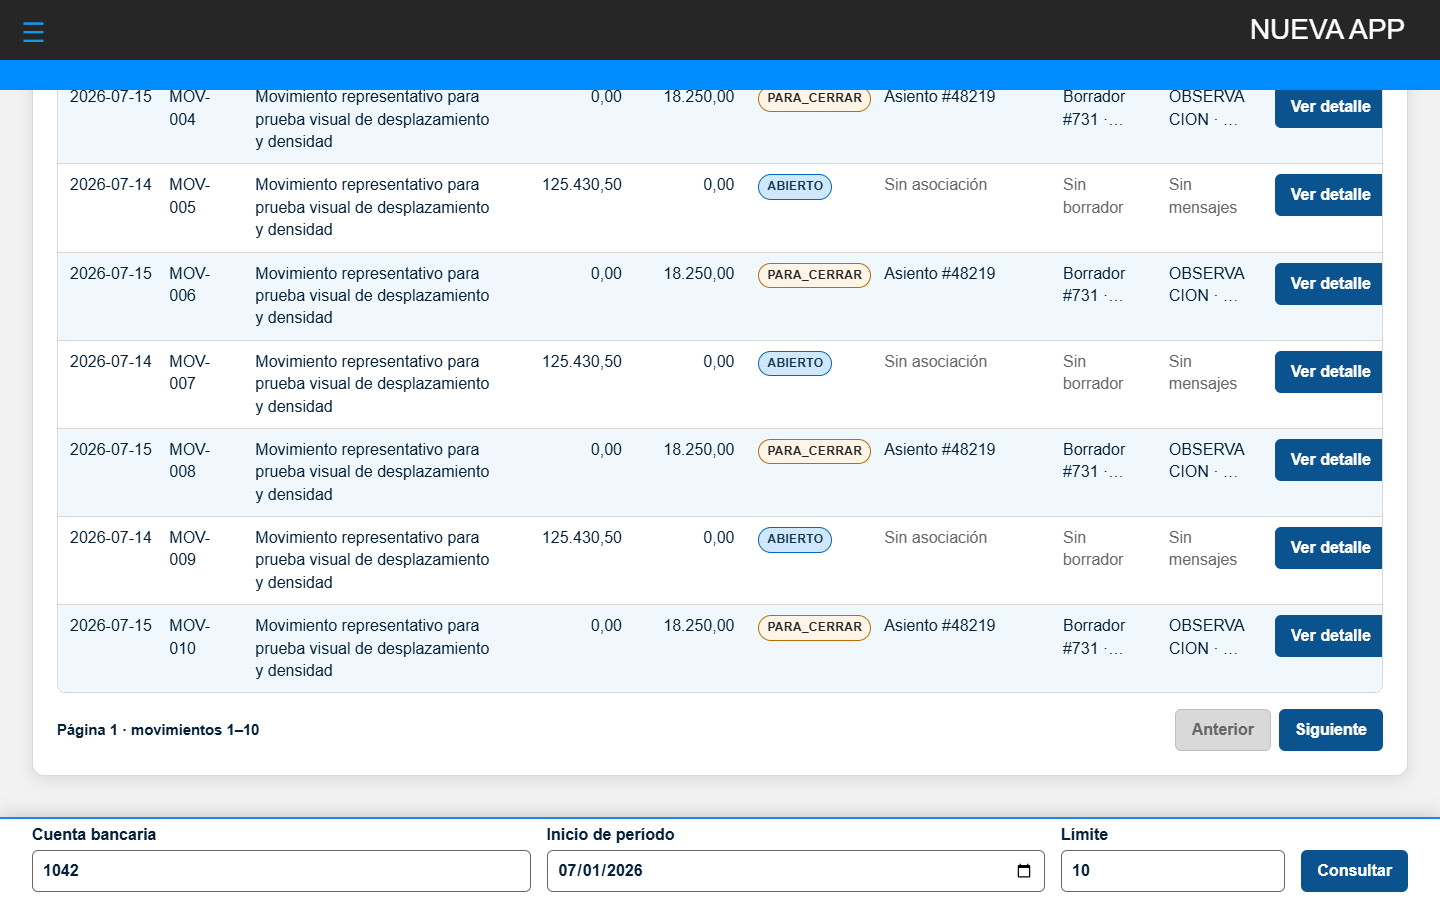
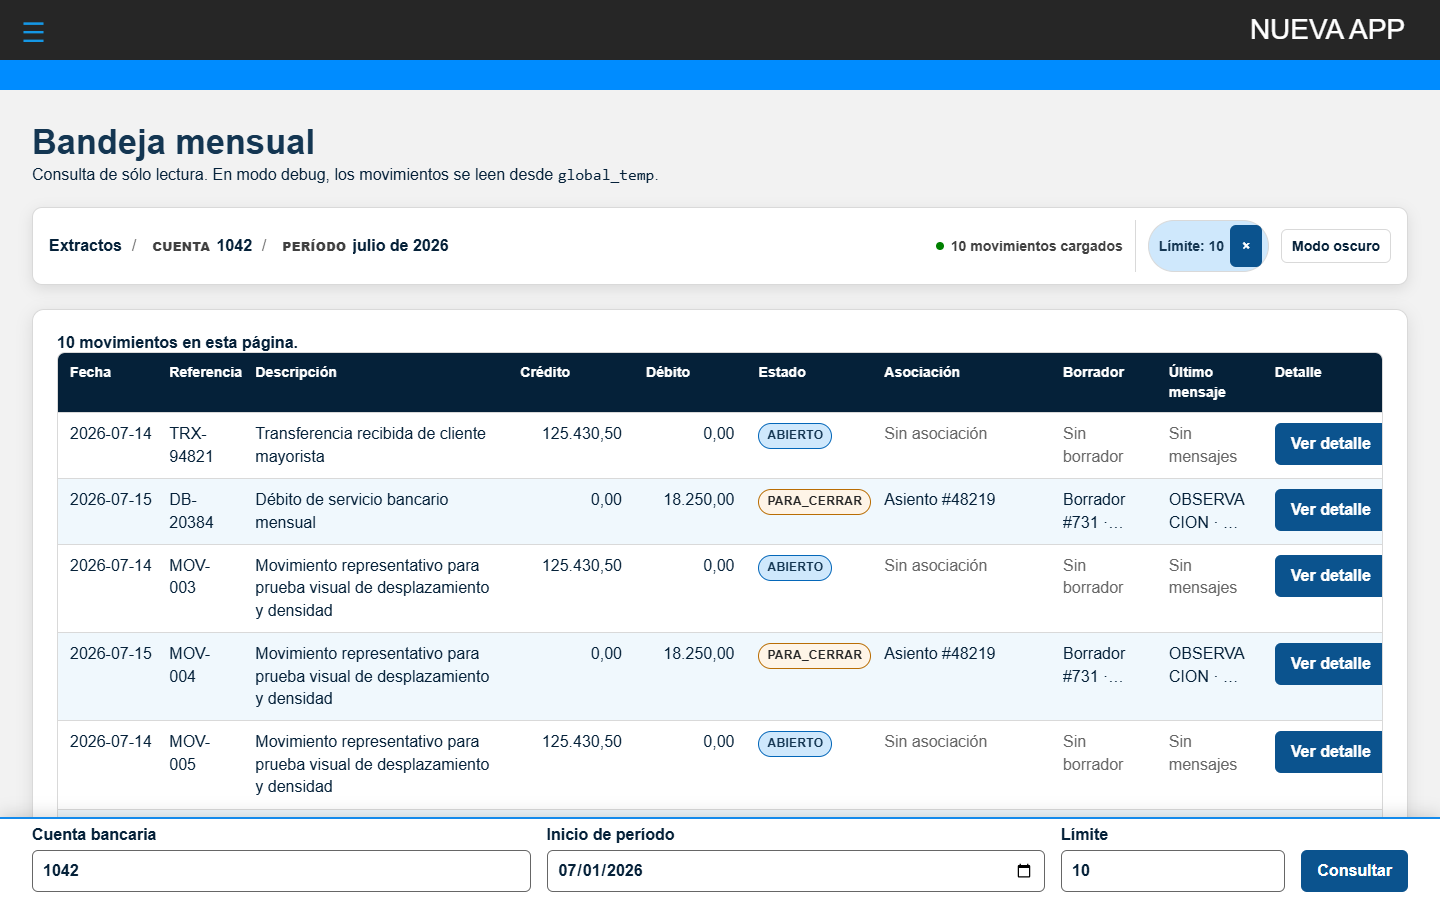
update footer

diff --git a/app/js/shared.js b/app/js/shared.js
@@ -317,6 +317,8 @@
         footer.classList.add('bandeja-footer');
         document.body.classList.add('bandeja-con-footer');
         footer.appendChild(controles);
+        footer.removeAttribute('hidden');
+        footer.style.removeProperty('display');
     }
 
     function iniciar() {

diff --git a/tests/VerificarCorreccionesVisualesTest.php b/tests/VerificarCorreccionesVisualesTest.php
@@ -27,6 +27,7 @@ $comprobar(strpos($css, 'overscroll-behavior: contain') !== false, 'El panel no 
 $comprobar(strpos($vista, 'data-controles-bandeja') !== false, 'El formulario debe identificar el bloque movible al footer.');
 $comprobar(strpos($javascript, "document.querySelector('header.footer')") !== false, 'Debe reutilizarse el footer de la estructura.');
 $comprobar(strpos($javascript, 'footer.appendChild(controles)') !== false, 'El bloque de consulta debe moverse al footer existente.');
+$comprobar(strpos($javascript, "footer.style.removeProperty('display')") !== false, 'La bandeja debe volver visible el footer ocultado por el script compartido.');
 $comprobar(strpos($css, 'header.footer.bandeja-footer') !== false, 'Faltan estilos acotados para el footer de bandeja.');
 $comprobar(strpos($css, '.bandeja-footer *') !== false && strpos($css, 'box-sizing: border-box') !== false, 'El footer debe contener sus controles sin overflow horizontal.');
 

diff --git a/tests/fixtures/bandeja-responsive.php b/tests/fixtures/bandeja-responsive.php
@@ -97,6 +97,6 @@ $contextoApp = [
 <header class="top"><span class="fixture-menu">☰</span><span class="fixture-logo">NUEVA APP</span></header>
 <div class="espaciador"></div>
 <?php include __DIR__ . '/../../app/html/bandeja-mensual.php'; ?>
-<header class="footer irrelevante"></header>
+<header class="footer irrelevante" style="display: none;"></header>
 </body>
 </html>

diff --git a/docs/ux/evidence/task-6/README.md b/docs/ux/evidence/task-6/README.md
@@ -82,6 +82,7 @@ Modo oscuro: preferencia `oscuro` persistida en localStorage y recuperada al rec
 Paleta: 0 colores hex, rgb(), rgba(), hsl() o hsla() declarados en app/css/shared.css.
 Footer desktop: position fixed; borde inferior 900/900 px; paginación termina en 751 px y permanece visible.
 Footer mobile: position static; controles dentro del footer; sin overflow horizontal.
+Integración real: se elimina el `display: none` que aplica `_shared/js/footer.js` antes de mostrar los controles de la bandeja.
 Flujo Siguiente -> Anterior: Anterior queda habilitado, vuelve a la URL previa y restaura `Página 1 · movimientos 1–10`.
 Entrada directa con cursor: Anterior queda habilitado y vuelve a la primera página del mismo contexto.
 ```
